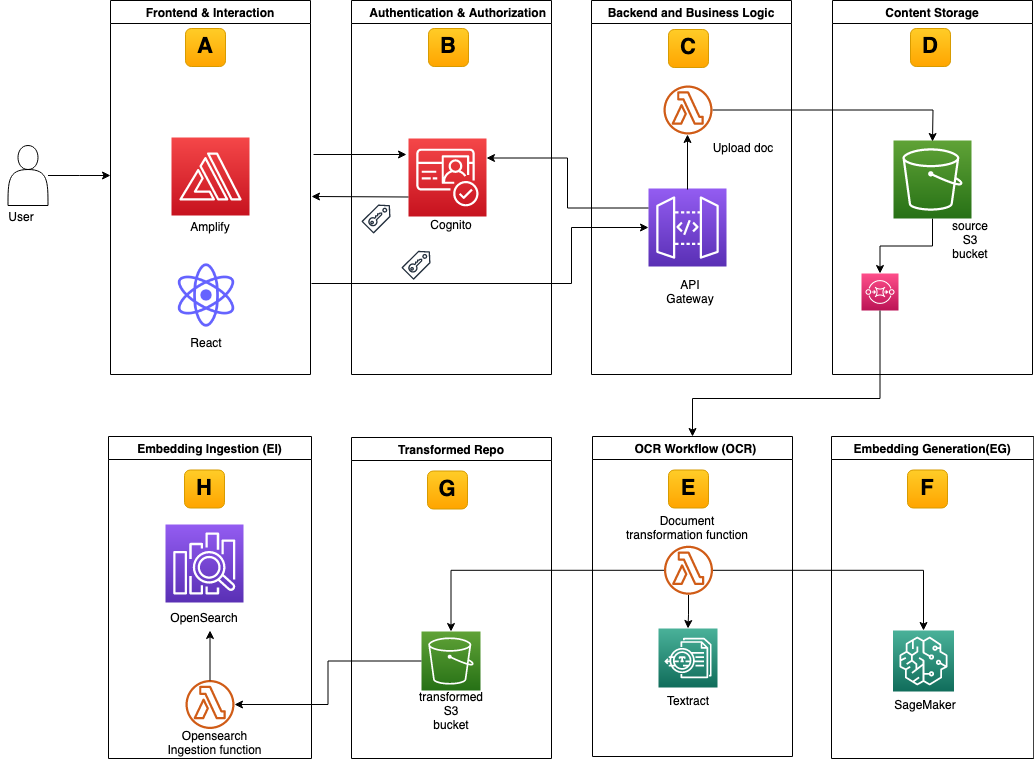
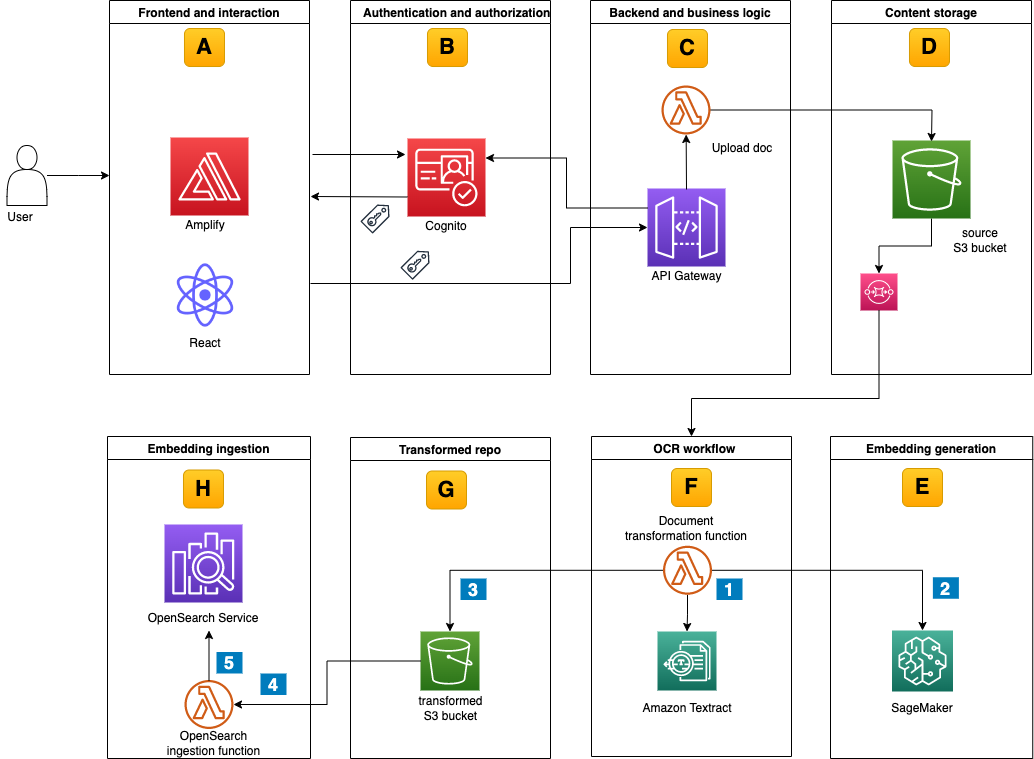
updated readme

diff --git a/README.md b/README.md
@@ -28,8 +28,8 @@ You should have the following prerequisites to deploy the content repository wit
 ## Deployment
 
 The following steps will deploy two AWS CDK stacks into your AWS account:
-* content-repo-search-stack (blog-content-repo-search-stack.ts) creates the environment detailed in the figure above except for the SageMaker endpoint which you create in a separate step. 
-* demo-data-stack (userpool-demo-data-stack.ts) deploys sample users, groups, and role mappings.
+* [content-repo-search-stack](/backend-cdk/lib/blog-content-repo-search-stack.ts) creates the environment detailed in the figure above except for the SageMaker endpoint which you create in a [separate step](#creation-of-sagemaker-endpoint).
+* [demo-data-stack](/backend-cdk/lib/userpool-demo-data-stack.ts) deploys sample users, groups, and role mappings.
 
 Clone the project git repository:
 ```bash
@@ -60,49 +60,53 @@ cdk deploy --all
 
 The complete stack set-up might take up-to 25 minutes. 
 
-Follow below steps to create the SageMaker endpoint:
-1. Open the SageMaker console at [https://console.aws.amazon.com/sagemaker/](https://console.aws.amazon.com/sagemaker/)
-2. Choose **Notebook** instances, then choose **Create notebook instance**.
-3. Under the **Notebook instance settings**, provide a name “content-repo-notebook” to the notebook and leave other defaults as-is.
-4. Under the **Permissions and encryption** section, you would see an IAM role with the prefix content-repo-stack. Leave the rest of the defaults and click on **Create notebook instance**.
-5. You will see that notebook creation will go to *pending* status before its available for use within few minutes.
-6.Once the notebook is in the available status, click on the **Open Jupyter** action.
-7. Click on the **Upload** button on the right to upload the `create-sagemaker-endpoint.ipynb` file in the `backend-cdk` folder of the root of the blog repository.
-8. Open the `create-sagemaker-endpoint.ipynb` notebook and then select the option **Run All** from the **Cell** section to execute all the cells. This might take up-to 10 minutes.
-9. Once all the cells have been successfully executed, verify that the SSM parameter `sagemaker-endpoint` is updated with the value of the SageMaker endpoint name.
-10. Verify that you see deployed Inference endpoint under **Endpoints** in the SageMaker section of the AWS Console.
-11. Upload sample data to the content repository:
-    * Please note that before you execute the script you need to update the `S3_BUCKET_NAME` with the `s3SourceBucketName` from the AWS CDK output of the content-repo-stack. 
-    * Execute `upload_documents_to_S3.sh` script in the root folder of the blog repository to upload the sample review data set. This takes a couple of minutes. 
+### Creation of SageMaker endpoint
+Follow below steps to create the SageMaker endpoint in the same AWS Region where you deployed the AWS CDK stack:
+1. Sign in to the [SageMaker console](https://console.aws.amazon.com/sagemaker/).
+2. In the navigation menu, select **Notebook**, then **Notebook instances**.
+3. Choose **Create notebook instance**.
+4. Under the **Notebook instance settings**, enter `content-repo-notebook` as the notebook instance name, and leave other defaults as-is. .
+5. Under the **Permissions and encryption** section, you need to set the IAM role section to the role with the prefix `content-repo-search-stack`. In case you don’t see this role automatically populated, select it from the drop-down. Leave the rest of the defaults, and choose **Create notebook instance**.
+6. The notebook creation status changes to *Pending* before it’s available for use within 3-4 minutes.
+7. Once the notebook is in the *Available* status, choose **Open Jupyter**.
+8. Choose the **Upload** button and upload the `create-sagemaker-endpoint.ipynb` file in the `backend-cdk` folder of the root of the blog repository.
+9. Open the `create-sagemaker-endpoint.ipynb` notebook. Select the option **Run All** from the **Cell** menu. This might take up to 10 minutes. 
+10. After all the cells have successfully run, verify that [AWS Systems Manager](https://aws.amazon.com/systems-manager/) parameter `sagemaker-endpoint` is updated with the value of the SageMaker endpoint name. You see this value as the output of the cell as shown below. In case you don’t see the output check if the preceding steps were run correctly. 
+11. Verify in the SageMaker console that the inference endpoint with the prefix `tensorflow-inference` has been deployed and is set to status `InService`.
+12. Upload sample data to the content repository:
+    * Update the `S3_BUCKET_NAME` variable in the `upload_documents_to_S3.sh` script in the root folder of the blog repository with the `s3SourceBucketName` from the AWS CDK output of the `content-repo-search-stack`. 
+    * Run `upload_documents_to_S3.sh` script to upload 160 sample documents to the content repository. This takes 5-6 minutes. 
 
 ## Using the search service
 
-The diagram below describes the lifecycle of a user-initiated search request.
+At this stage you have deployed all the building blocks for the content repository in your AWS account. You also pushed a limited corpus of 160 sample documents (.png format) to the content repository. Each document is in one of the four different languages - English, German, Spanish and French. With the added multilingual search capability, you can query in one language and receive semantically similar results across different languages while maintaining the access control logic. The diagram below describes the lifecycle of a user-initiated search request.
 ![image info](./backend-cdk/img/search_lifecycle.png)
 
-1. Access the front-end application
-    * Copy the `amplifyHostedAppUrl` value shown in the AWS CDK output from the content-repo-stack.
-    * Use the URL with your web browser to access the frontend application.
+1. Access the front-end application:
+    * Copy the `amplifyHostedAppUrl` value of the AWS CDK output from the **content-repo-search-stack** shown in the terminal.
+    * Enter the URL in your web browser to access the frontend application.
     * A temporary page displays until the automated build and deployment of the React application completes after 4-5 minutes.
-2. Application sign-in
-    * The react webpage asks you to sign in first, then change the temporary password.
-    * The content repository provides two demo users with credentials as part of the demo-data-stack in the AWS CDK output. Start with the `sales-user` user, which belongs to the `sales` department.
-3. Enter the search query and verify results. For example
-    * Enter “*works well*” as the search query. Note the multi lingual output and the semantically similar results
-    * Check the result for the search query “*bad quality*"
-4. You can re-log in using the `marketing-user` and credentials to verify access control.
-    * This time with “*works well*” you find different output as the `sales-user` thanks to access control that allows `marketing-user` to search only for the documents that belong to the `marketing` department. 
+2. Sign in to the application:
+    * The content repository provides two demo users with credentials as part of the **demo-data-stack** in the AWS CDK output. Copy the password from the terminal associated with the `sales-user`, which belongs to the `sales` department.
+    * Follow the prompts from the React webpage to sign in with the `sales-user` and change the temporary password.
+3. Enter search queries and verify results. For example:
+    * Enter `works well` as the search query. Note the multilingual output and the semantically similar results.
+    * Enter `bad quality` as the search query. Note the multilingual output and the semantically similar results. 
+4. Sign out as the `sales-user` with the **Log Out** button on the webpage.
+4. Sign in using the `marketing-user` credentials to verify access control.
+    * Follow the sign in procedure in step 2 but with the `marketing-user`.
+    * This time with `works well` as search query, you find different output. This is because the access control only allows `marketing-user` to search for the documents that belong to the `marketing` department. 
 
 ### Outlook
-The building blocks of the semantic search for unstructured documents namely Amazon Textract, Amazon SageMaker and Amazon OpenSearch services set a solid foundation for you to customize and enhance the search capabilities as per your specific use-case. For example, you can leverage the fast developments in Large Language Models (LLM) to enhance the semantic search experience by replacing the encoder model with an LLM capable of generating multilingual embedding while still maintaining the OpenSearch service to store and index data and perform vector search. 
+The building blocks of the semantic search for unstructured documents—Amazon Textract, Amazon SageMaker, and Amazon OpenSearch Service—set a foundation for you to customize and enhance the search capabilities for your specific use case. For example, you can leverage the fast developments in [Large Language Models (LLM) to enhance the semantic search experience](https://docs.aws.amazon.com/solutions/latest/qnabot-on-aws/semantic-question-matching.html). You can replace the encoder model with an LLM capable of generating multilingual embeddings while still maintaining the OpenSearch service to store and index data and perform vector search. 
 
 ## Cleaning up
 
-In the subdirectory “backend-cdk”, delete the deployed resources:
+In the `backend-cdk` subdirectory of the cloned repository, delete the deployed resources:
 ```
 cdk destroy –all 
 ```
-Additionally delete the SageMaker endpoint/notebook instance.
+Additionally, you need to access the Amazon SageMaker console to [delete the SageMaker endpoint and notebook instance](https://docs.aws.amazon.com/sagemaker/latest/dg/ex1-cleanup.html).
 
 ## Useful commands
  * `cdk ls`          list all stacks in the app
